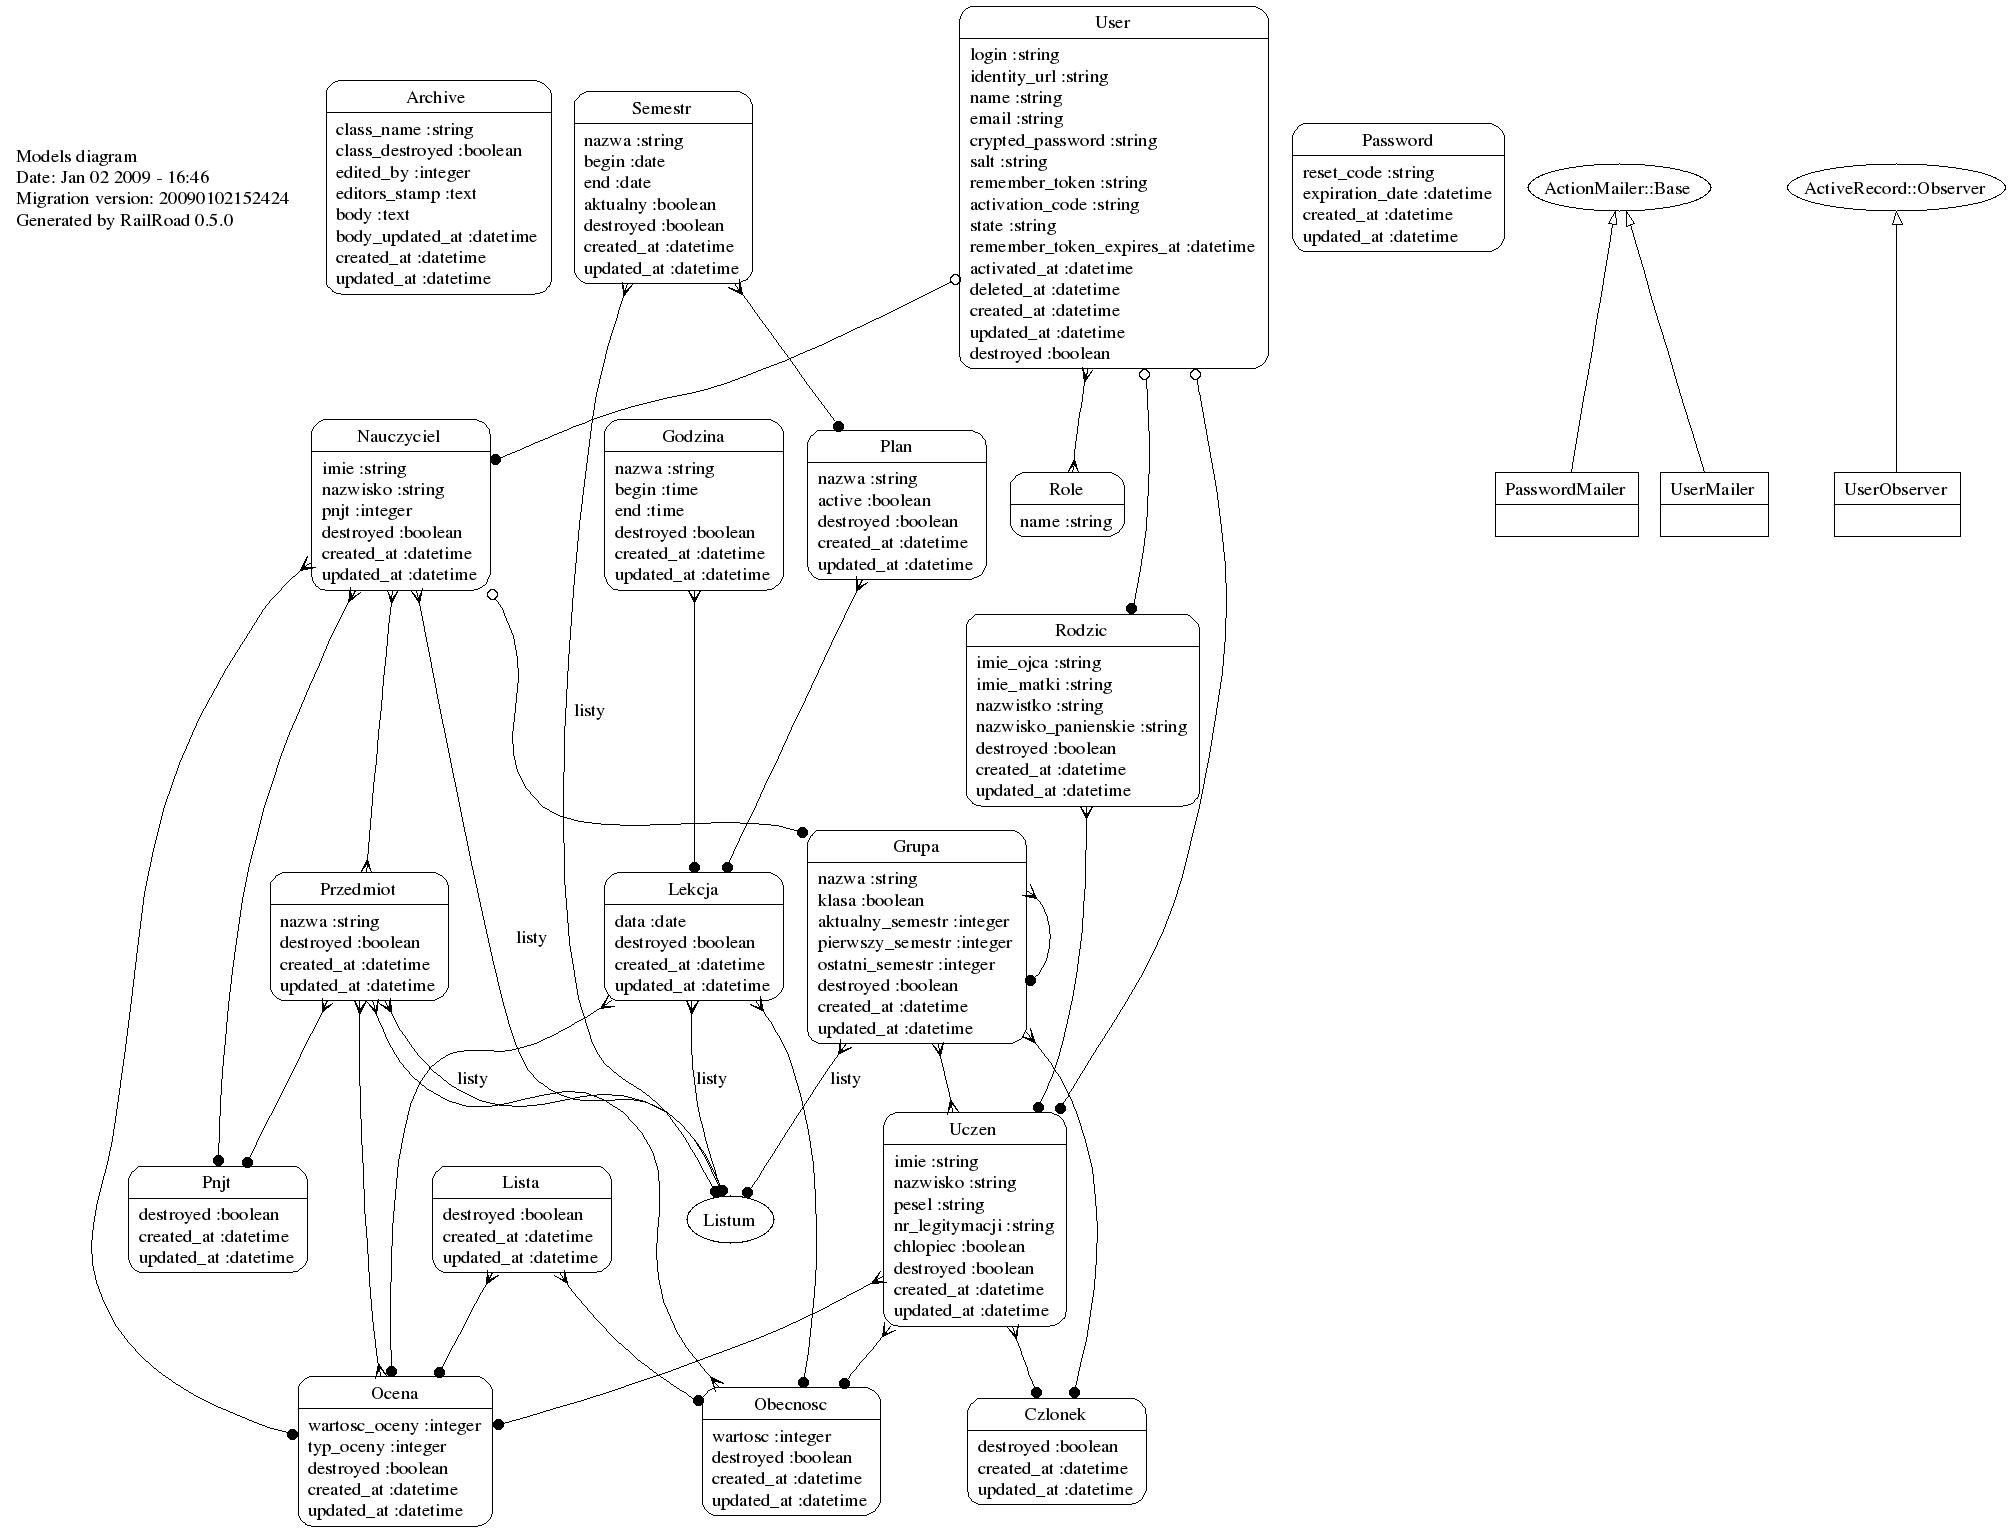
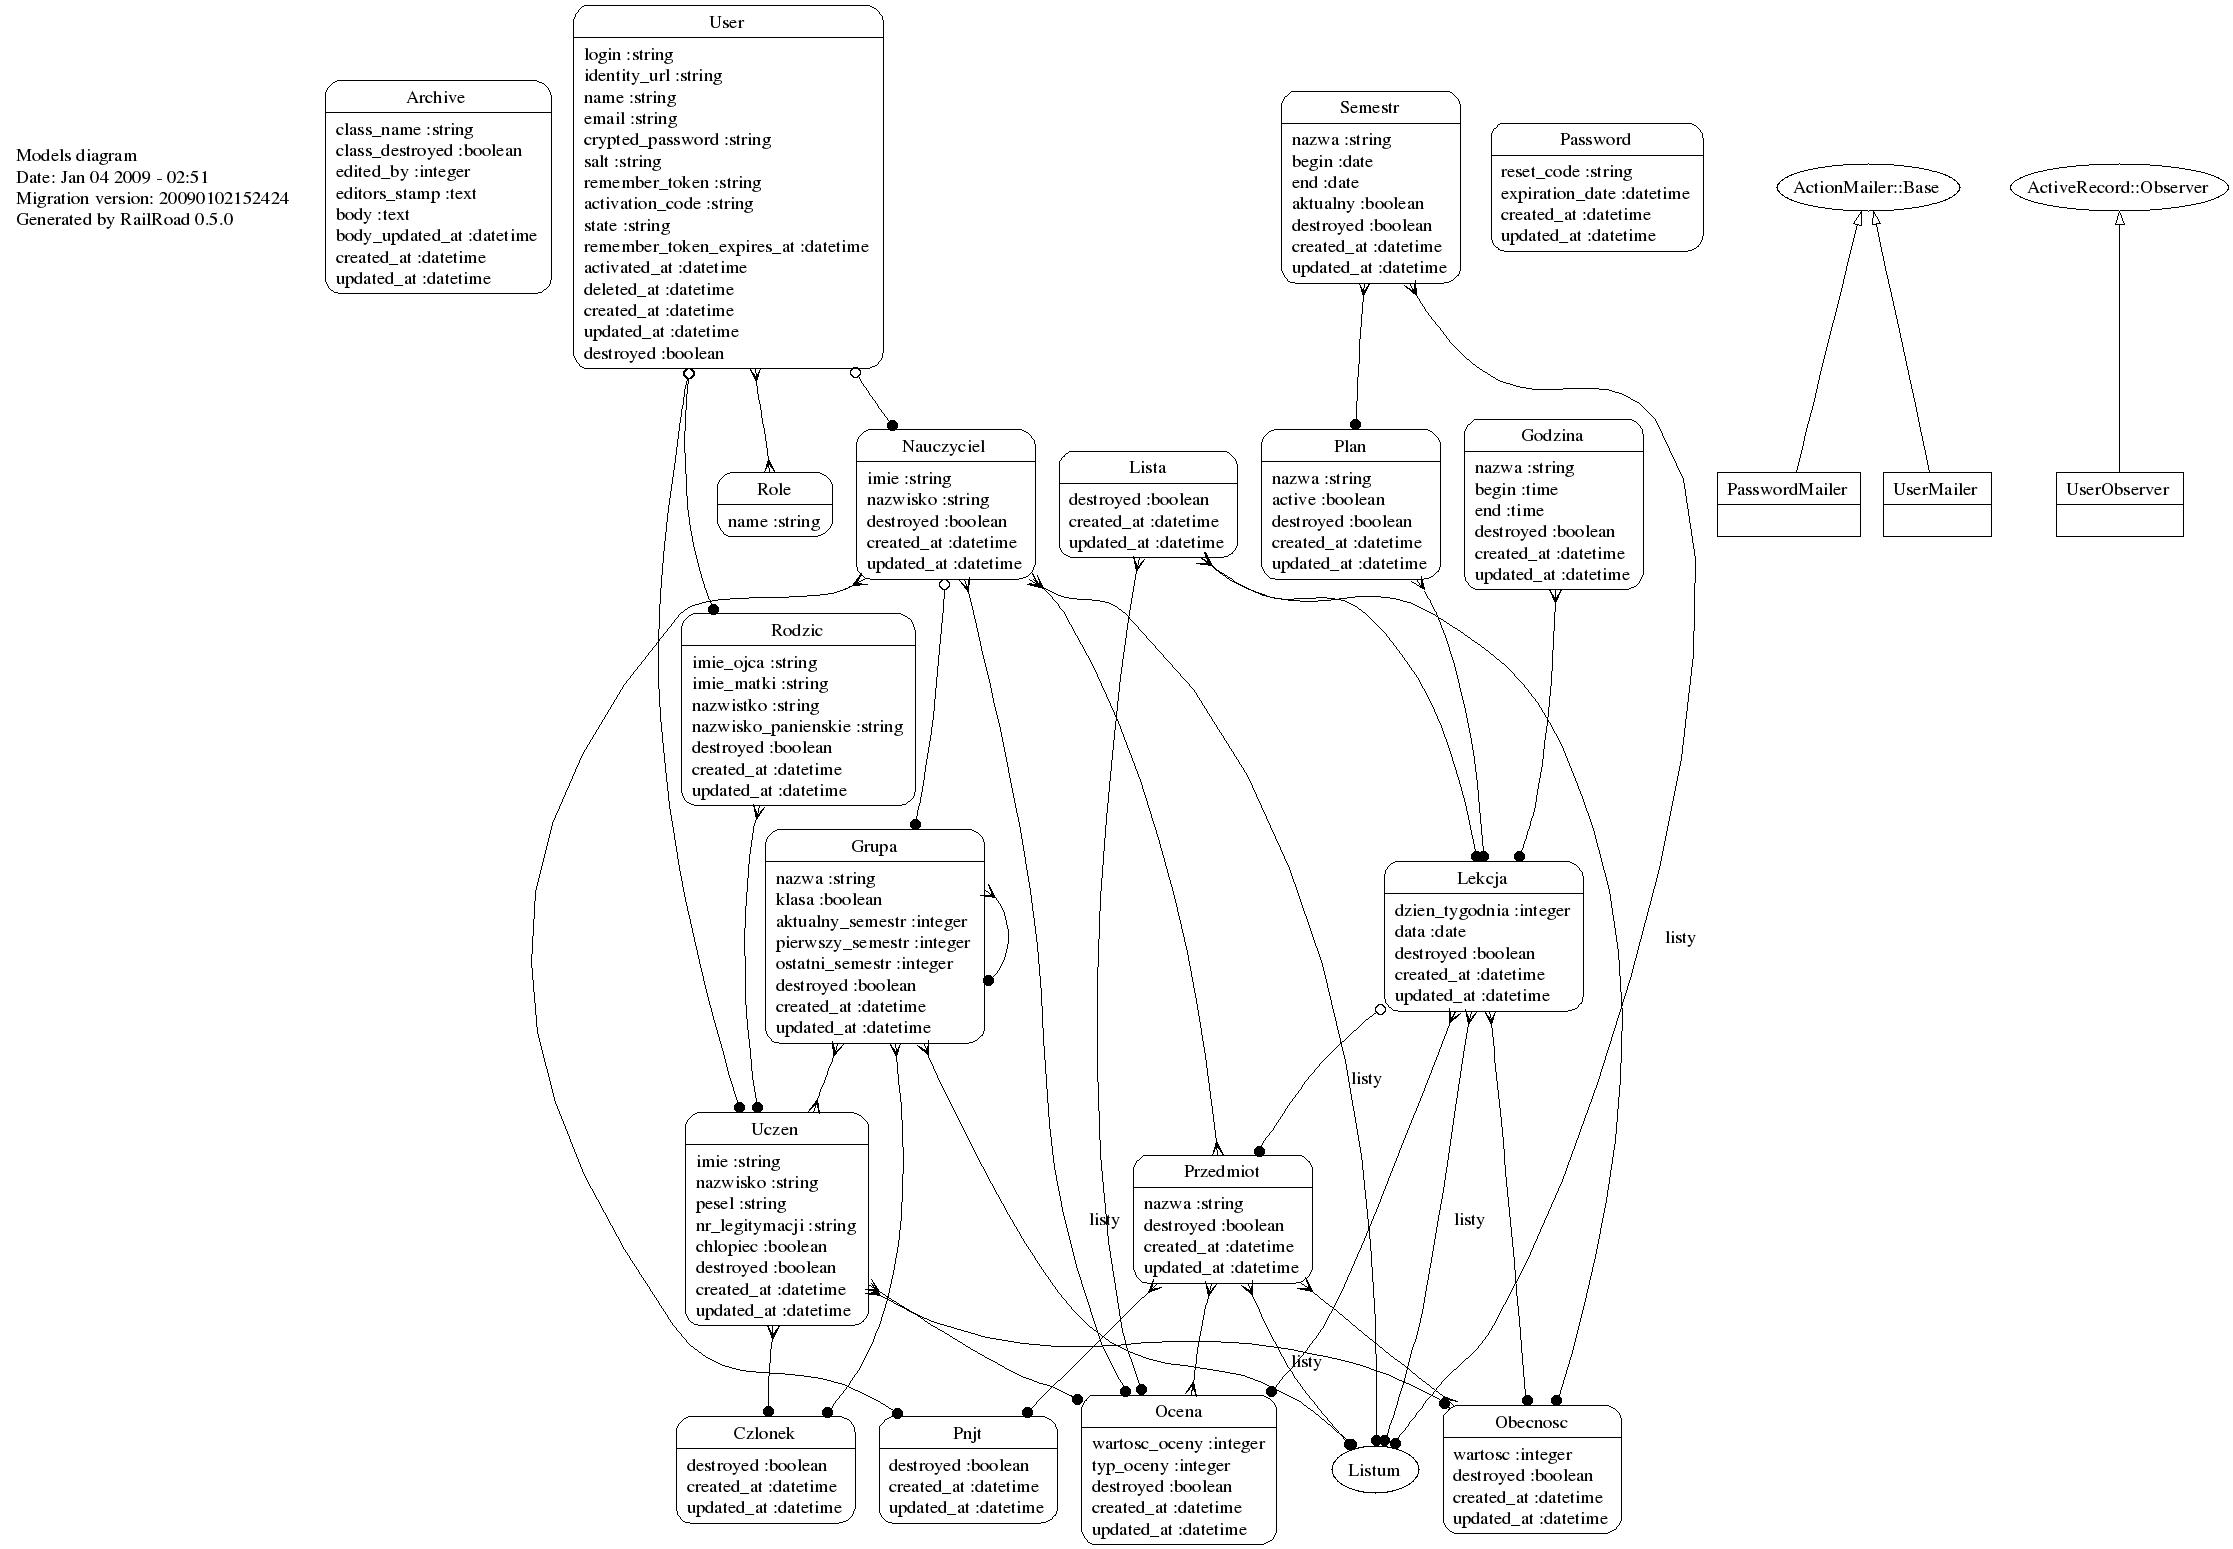
...

diff --git a/app/controllers/plany_controller.rb b/app/controllers/plany_controller.rb
@@ -1,6 +1,5 @@
 class PlanyController < ApplicationController
-  # GET /plany
-  # GET /plany.xml
+
   def index
     @plany = Plan.existing.find(:all, :order => :nazwa)
 
@@ -10,8 +9,7 @@ class PlanyController < ApplicationController
     end
   end
 
-  # GET /plany/1
-  # GET /plany/1.xml
+
   def show
     @plan = Plan.find(params[:id])
 
@@ -21,8 +19,7 @@ class PlanyController < ApplicationController
     end
   end
 
-  # GET /plany/new
-  # GET /plany/new.xml
+
   def new
     @plan = Plan.new
 
@@ -32,13 +29,12 @@ class PlanyController < ApplicationController
     end
   end
 
-  # GET /plany/1/edit
+
   def edit
     @plan = Plan.find(params[:id])
   end
 
-  # POST /plany
-  # POST /plany.xml
+
   def create
     @plan = Plan.new(params[:plan])
     @plan.set_editors_stamp get_editors_stamp
@@ -57,8 +53,7 @@ class PlanyController < ApplicationController
     end
   end
 
-  # PUT /plany/1
-  # PUT /plany/1.xml
+
   def update
     @plan = Plan.find(params[:id])
     @plan.set_editors_stamp get_editors_stamp
@@ -76,7 +71,8 @@ class PlanyController < ApplicationController
       end
     end
   end
-  
+
+
   def plan
     @plan    = Plan.find(params[:id])
     #@klasa   = Grupa.find(params[:klasa])
@@ -87,11 +83,12 @@ class PlanyController < ApplicationController
   
   def plan_dla_klasy
     @plan    = Plan.find(params[:id])
-    @klasa   = Grupa.find(params[:klasa])
+    @grupa   = Grupa.find(params[:klasa])
     @godziny = Godzina.existing.all
 
   end
-  
+
+
   def plan_dla_klasy_edit
     @godzina = params[:godzina]
     @dzien   = params[:dzien]
@@ -101,8 +98,22 @@ class PlanyController < ApplicationController
     #@lekcje = Lekcje.existing.find_all_by_semestr @plan.semestr
   end
 
-  # DELETE /plany/1
-  # DELETE /plany/1.xml
+  
+  def create_lekcja
+    l = Lekcja.existing.find(:first, :conditions => ["plan_id = ? AND dzien_tygodnia = ? AND godzina_id = ?", params[:Lekcja][:plan_id], params[:Lekcja][:dzien_tygodnia], params[:Lekcja][:godzina_id]])
+    if (l.nil?)
+      l = Lekcja.new(:plan_id => params[:Lekcja][:plan_id], :dzien_tygodnia => params[:Lekcja][:dzien_tygodnia], :godzina_id => params[:Lekcja][:godzina_id], :lista_id => params[:Lekcja][:lista_id]) 
+    else
+      l.lista_id = params[:Lekcja][:lista_id]
+    end
+    l.set_editors_stamp get_editors_stamp
+    l.set_current_user  current_user
+    l.save
+    
+    redirect_to '/plany'
+  end
+
+
   def destroy
     @plan = Plan.find(params[:id])
     @plan.set_editors_stamp get_editors_stamp
@@ -114,7 +125,8 @@ class PlanyController < ApplicationController
       format.xml  { head :ok }
     end
   end
-  
+
+
   private 
   def active plan
     if plan.active

diff --git a/db/schema.rb b/db/schema.rb
@@ -57,6 +57,7 @@ ActiveRecord::Schema.define(:version => 20090102152424) do
 
   create_table "lekcje", :force => true do |t|
     t.integer  "godzina_id"
+    t.integer  "lista_id"
     t.integer  "plan_id"
     t.integer  "dzien_tygodnia"
     t.date     "data"
@@ -70,7 +71,6 @@ ActiveRecord::Schema.define(:version => 20090102152424) do
     t.integer  "nauczyciel_id"
     t.integer  "semestr_id"
     t.integer  "przedmiot_id"
-    t.integer  "lekcja_id"
     t.boolean  "destroyed",     :default => false
     t.datetime "created_at"
     t.datetime "updated_at"
@@ -80,7 +80,6 @@ ActiveRecord::Schema.define(:version => 20090102152424) do
     t.string   "imie"
     t.string   "nazwisko"
     t.integer  "user_id"
-    t.integer  "pnjt"
     t.boolean  "destroyed",  :default => false
     t.datetime "created_at"
     t.datetime "updated_at"
@@ -150,7 +149,6 @@ ActiveRecord::Schema.define(:version => 20090102152424) do
 
   create_table "przedmioty", :force => true do |t|
     t.string   "nazwa"
-    t.integer  "pnjt_id"
     t.boolean  "destroyed",  :default => false
     t.datetime "created_at"
     t.datetime "updated_at"

diff --git a/app/controllers/lekcje_controller.rb b/app/controllers/lekcje_controller.rb
@@ -84,15 +84,10 @@ class LekcjeController < ApplicationController
   end
   
   def plan_dla_klasy
-    puts Lekcja.existing.find(:all, :conditions => ["godzina_id = ? AND plan_id = ? AND dzien_tygodnia = ? ", params[:godzina], params[:id], params[:dzien]])
-    puts "+===========+"
-    puts params[:godzina]
-    puts params[:id]
-    puts params[:dzien]
-    puts "+===========+"
-    plan2 = (plan.empty?) ? Lekcja.new(:godzina_id => params[:godzina], :plan_id => params[:id], :dzien_tygodnia => params[:dzien]) : plan
-    puts plan2.empty?
-    puts plan2.new_record?
+    lekcja = Lekcja.existing.find(:all, :conditions => ["godzina_id = ? AND dzien_tygodnia = ? AND plan_id = ? AND data = ?", params[:godzina], params[:id], params[:id], nil])
+    @lekcja = (lekcja == []) ? Lekcja.new(:godzina_id => params[:godzina], :plan_id => params[:id], :dzien_tygodnia => params[:dzien]) : lekcja
+#    puts plan.empty?
+ #   puts plan.new_record?
 
   end
 end

diff --git a/app/models/lekcja.rb b/app/models/lekcja.rb
@@ -1,13 +1,18 @@
 class Lekcja < ActiveRecord::Base
   belongs_to :plan
   belongs_to :godzina
+  belongs_to :lista
   
   has_many :listy
   has_many :obecnosci
   has_many :oceny
   
+  has_one :przedmiot, :through => :lista
+  
   acts_as_external_archive
   
-  named_scope :existing ,   :conditions => ["destroyed = ?", false]
-  named_scope :destroyed,   :conditions => ["destroyed = ?", true]  
+  named_scope :existing ,   :conditions => ["lekcje.destroyed = ?", false]
+  named_scope :destroyed,   :conditions => ["lekcje.destroyed = ?", true] 
+  named_scope :cp, lambda {|*args| {:include => :lista, :conditions => ["listy.grupa_id = ?", args[0]] }}
+  named_scope :cp2, :include => :lista, :conditions => ["listy.grupa_id = ?", 1]
 end

diff --git a/app/helpers/plany_helper.rb b/app/helpers/plany_helper.rb
@@ -1,9 +1,7 @@
 module PlanyHelper
   
   def nazwa_przedmiotu plan_id, dzien_tygodnia, godzina, grupa_id
-    l = Lekcja.existing.find(:first, :conditions => ["plan_id = ? AND dzien_tygodnia = ? AND godzina_id = ?", plan_id, dzien_tygodnia, godzina])
-    g = (l.nil?) ? [] : l.listy.existing.find_by_grupa_id(grupa_id)
-    p = (g == [] || g.nil?) ? "..." : g.przedmiot.nazwa
-    p
+    l = Lekcja.existing.find(:first, :include => :lista, :conditions => ["plan_id = ? AND dzien_tygodnia = ? AND godzina_id = ? AND listy.grupa_id = ?", plan_id, dzien_tygodnia, godzina, grupa_id])
+    (l.nil?) ? dzien_tygodnia.to_s+" "+godzina.to_s : l.przedmiot.nazwa
   end
 end

diff --git a/db/migrate/20081229214327_create_lekcje.rb b/db/migrate/20081229214327_create_lekcje.rb
@@ -2,9 +2,10 @@ class CreateLekcje < ActiveRecord::Migration
   def self.up
     create_table :lekcje do |t|
       t.integer :godzina_id
-      #t.integer :lista_id
+      t.integer :lista_id
       t.integer :plan_id
       t.integer :dzien_tygodnia
+      
       t.date :data
 
       t.boolean  :destroyed, :default => false

diff --git a/db/migrate/20081229214618_create_listy.rb b/db/migrate/20081229214618_create_listy.rb
@@ -5,7 +5,6 @@ class CreateListy < ActiveRecord::Migration
       t.integer :nauczyciel_id
       t.integer :semestr_id
       t.integer :przedmiot_id
-      t.integer :lekcja_id
 
       t.boolean  :destroyed, :default => false
       #t.integer  :edited_by

diff --git a/app/models/lista.rb b/app/models/lista.rb
@@ -3,8 +3,8 @@ class Lista < ActiveRecord::Base
   belongs_to :nauczyciel
   belongs_to :semestr
   belongs_to :przedmiot
-  belongs_to :lekcja
   
+  has_many :lekcje
   has_many :oceny
   has_many :obecnosci
   
